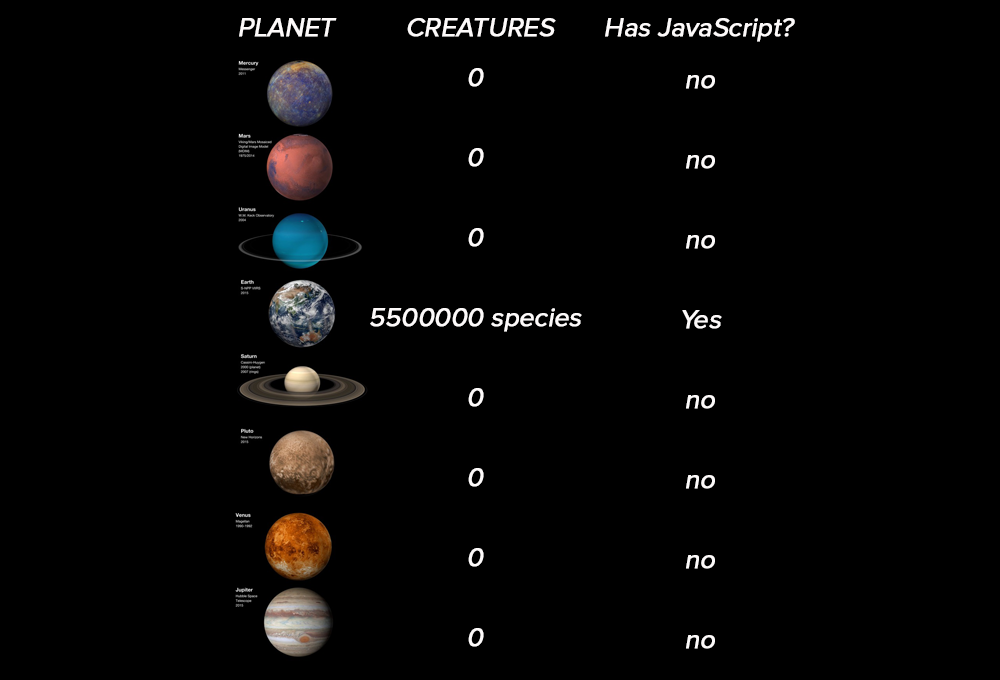
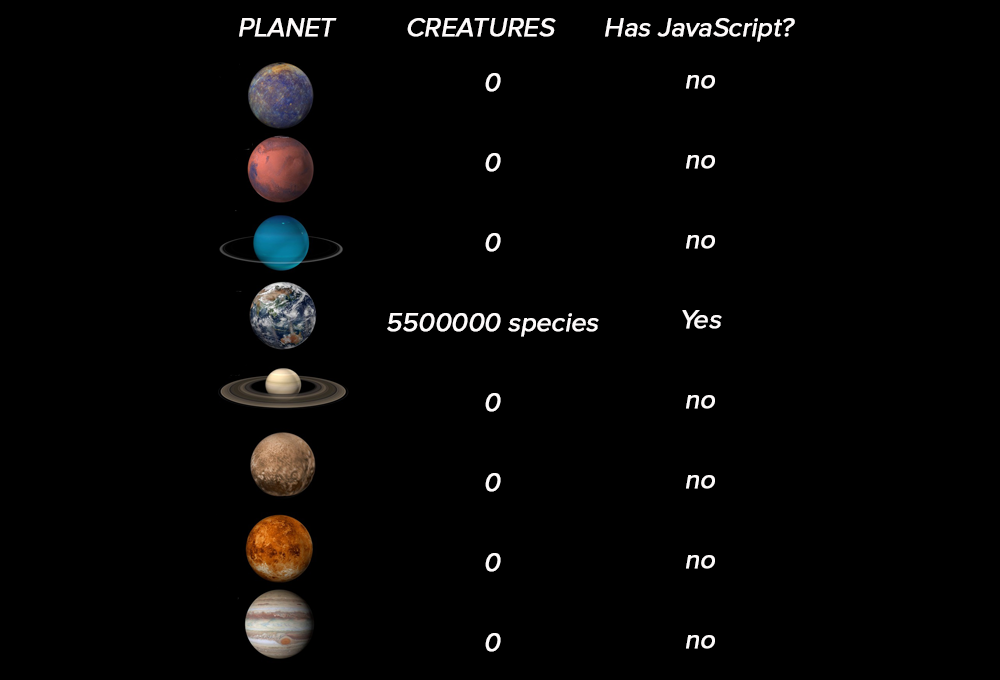
feat: add mobile layout (Sun, May 15, 2022 11:23:42 PM)

diff --git a/cssMemSlider/style.css b/cssMemSlider/style.css
@@ -14,7 +14,9 @@ body {
     height: 100vh;
     margin: 0;
     background-color: #000000;
-    background-image: url(assets/background.jpeg);
+    background-image: url(assets/background-space.jpg);
+    background-repeat: round;
+    background-size: cover;
     font-family: 'Ubuntu';
     font-style: normal;
     font-weight: 400;
@@ -34,6 +36,9 @@ body {
     display: grid;
     grid-template-columns: 2fr 1fr;
     grid-template-rows: 1fr 5rem;
+    grid-template-areas: 
+    "slides slides"
+    "titles controls";
     gap: 1rem;
     overflow: hidden;
 }
@@ -44,14 +49,13 @@ body {
 
 .slide__container {
     width: 100%;
-    height: 32rem;
-    grid-column: 1/3;
+    grid-area: slides;
     justify-self: center;
     display: flex;
 }
 .slide__img {
     width: 100%;
-    height: 32rem;
+    height: 31rem;
     border-radius: 0.5rem;
     background-repeat: no-repeat;
     background-position: top center;
@@ -72,6 +76,7 @@ body {
 }
 
 .title__container {
+    grid-area: titles;
     overflow: hidden;
 }
 .title__text {
@@ -81,6 +86,7 @@ body {
 }
 
 .control__container {
+    grid-area: controls;
     justify-self: end;
     display: flex;
 }
@@ -136,3 +142,28 @@ body {
     }
 }
 /* Animation styles end */
+
+@media screen and (max-width: 767px) {
+    .slider {
+        padding: 1rem;
+        grid-template-columns: 1fr;
+        grid-template-rows: auto auto minmax(3rem, auto);
+        grid-template-areas: 
+        "slides"
+        "controls"
+        "titles";
+    }
+    .slide__img {
+        height: 50vw;
+    }
+    .control__container {
+        justify-self: center;
+    }
+    .title__text {
+        font-size: 1rem;
+    }
+    .control__circle {
+        width: 0.5rem;
+        height: 0.5rem;
+    }
+}
